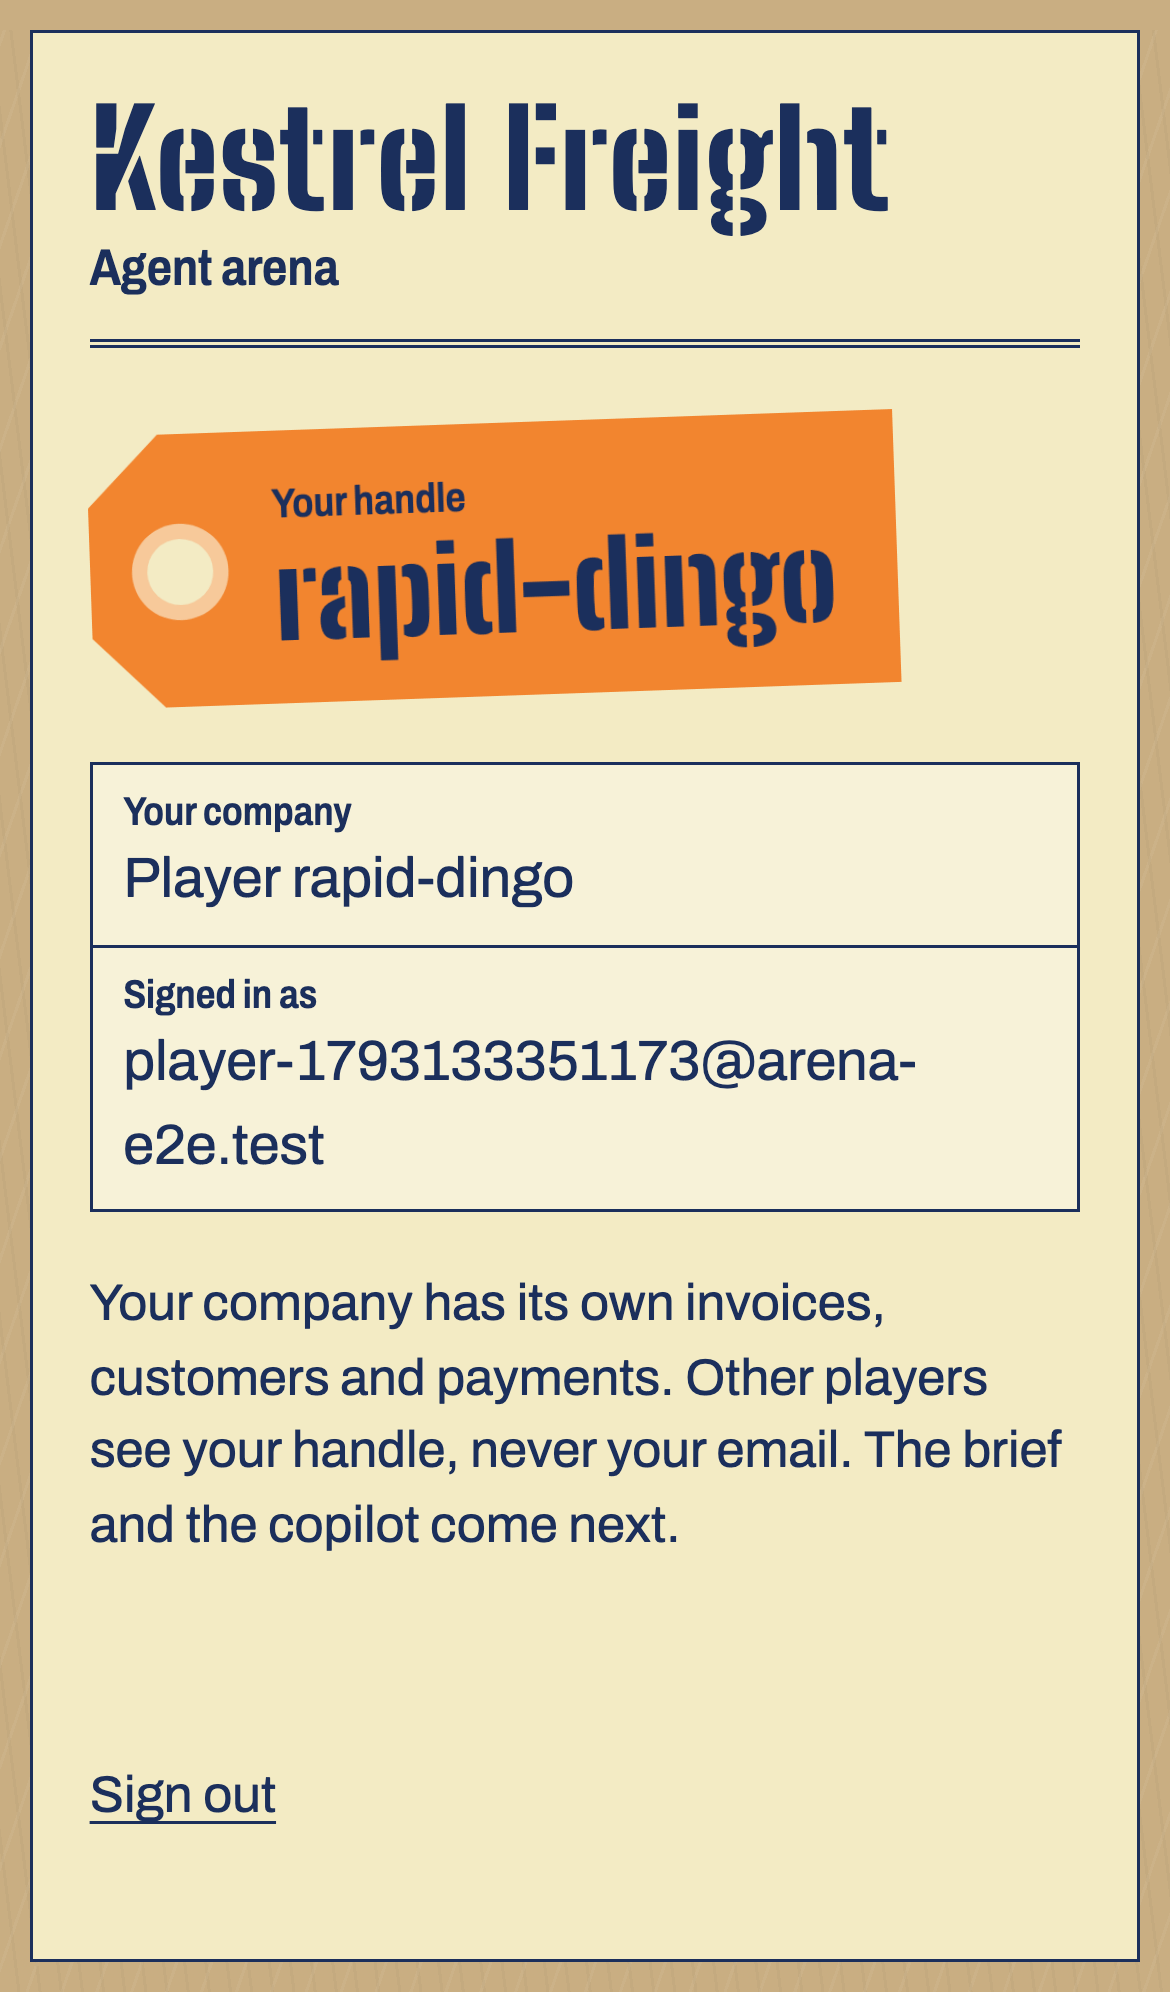
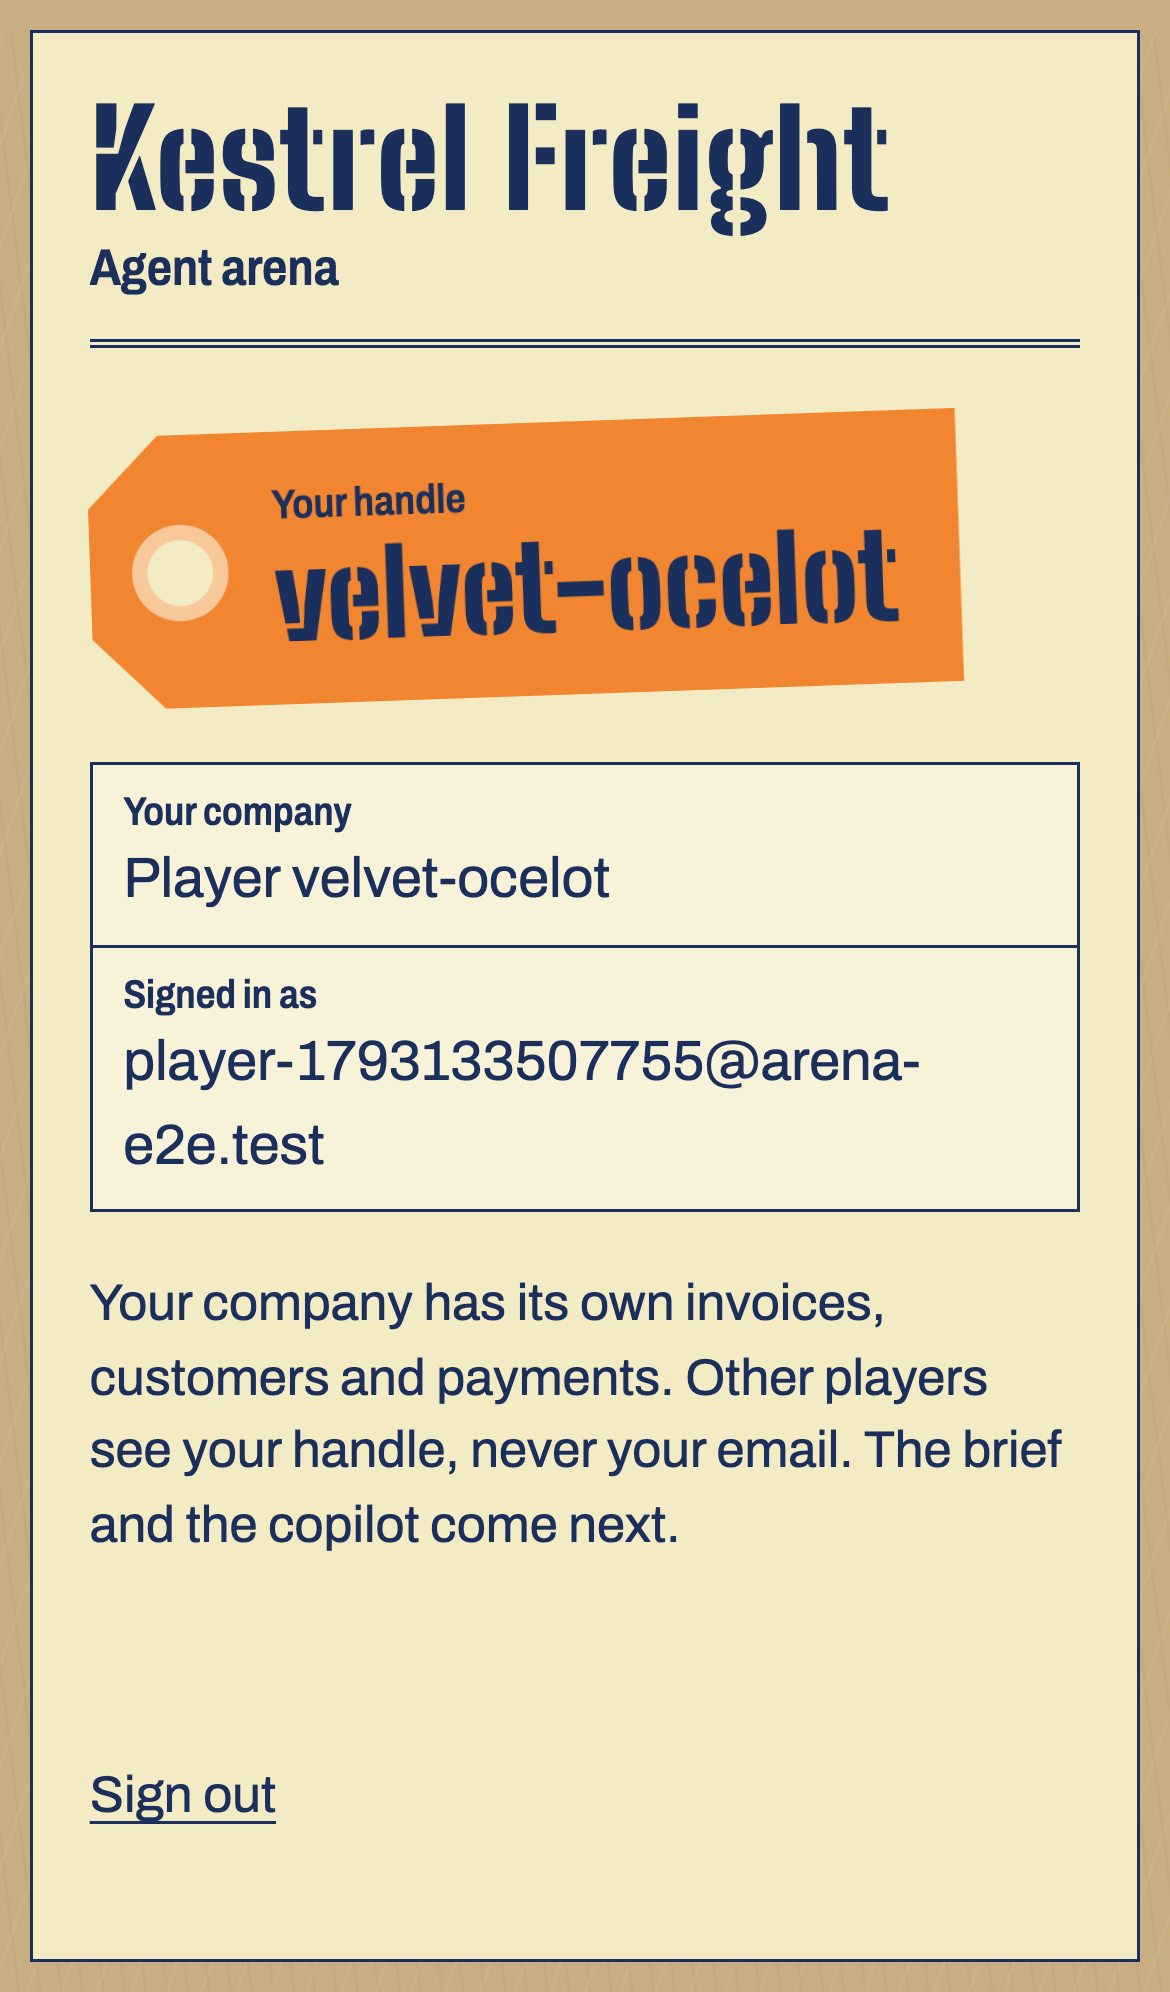
fix(arena): honor ?next= when the session lands before the sign-in redirect
The signed-in branch of /sign-in sent everyone to / and won the race with
SignIn's own navigate, so a same-origin ?next= (step 4's consent round trip)
was dropped. e2e now checks the positive case too.

Changed region(s): [[0.2462, 0.1867, 0.8308, 0.3424], [0.4308, 0.498, 0.7692, 0.5602], [0.2462, 0.4357, 0.5231, 0.4669]]

diff --git a/apps/arena/src/App.tsx b/apps/arena/src/App.tsx
@@ -1,9 +1,15 @@
-import { Navigate, Route, Routes, useLocation } from "react-router";
-import { signInPath } from "@ar/shared/auth/next.ts";
+import { Navigate, Route, Routes, useLocation, useSearchParams } from "react-router";
+import { safeNext, signInPath } from "@ar/shared/auth/next.ts";
 import { agentReturnPath } from "./lib/routes.ts";
 import { Home } from "./pages/Home.tsx";
 import { SignIn } from "./pages/SignIn.tsx";
 import { useSession } from "./session.ts";
+
+// Signed in already (or just now: the session lands before SignIn's own navigate runs), so go where ?next= says.
+function SignedIn() {
+  const [params] = useSearchParams();
+  return <Navigate replace to={safeNext(params.get("next"))} />;
+}
 
 function AgentReturn() {
   return <Navigate replace to={agentReturnPath(useLocation().search)} />;
@@ -16,7 +22,7 @@ export function App() {
   const here = location.pathname + location.search;
   return (
     <Routes>
-      <Route path="/sign-in" element={session ? <Navigate to="/" replace /> : <SignIn />} />
+      <Route path="/sign-in" element={session ? <SignedIn /> : <SignIn />} />
       <Route path="/agent" element={<AgentReturn />} />
       <Route path="*" element={session ? <Home email={session.user.email ?? ""} /> : <Navigate to={signInPath(here)} replace />} />
     </Routes>

diff --git a/docs/context-packs/REPORT_04.md b/docs/context-packs/REPORT_04.md
@@ -83,12 +83,13 @@ which broke `evals/run.ts`; pack 02's Deno suites were re-run green after the mo
    - Look: "freight manifest" on a phone: a canary carbon-copy sheet on kraft, form-ink navy, manifest cells
      for fields, Big Shoulders Stencil for the wordmark, handle and code, Archivo for text; the cargo-tag orange
      is spent on one thing, the handle.
-   - Evidence: `apps/arena/e2e/signin.e2e.mjs` at an iPhone 14 viewport, code read from Mailpit, 9 steps pass
+   - Evidence: `apps/arena/e2e/signin.e2e.mjs` at an iPhone 14 viewport, code read from Mailpit, 10 steps pass
      (`evidence/A_signin_e2e_local.txt`): new email gets a code with no link; a wrong code is refused; a pasted
      code with a space works; handle and company shown about 0.6 s after opening the page with scripted typing
      (P4's 60 s is mostly the human reading an email); the database has one player row, its own tenant and 560
      cloned invoices; reload and a returning sign-in keep the same handle; an off-site `?next=` lands in the
-     arena; the production build refuses and the stage build passes. Screenshots: `evidence/A_signin_email_390.png`,
+     arena and a same-origin one is honored (this caught a race: the signed-in branch of `/sign-in` used to
+     send everyone to `/` before the page's own redirect ran); the production build refuses and the stage build passes. Screenshots: `evidence/A_signin_email_390.png`,
      `evidence/A_player_tag_390.png`. `scripts/e2e-apps.sh` now takes `<app>:<test>` (for example `arena:signin`).
 3. Brief page: rules, the four flags, the `KST-2026-####` hint, what counts as a capture, the prize, the "found
    a real hole?" policy; text the humans still owe is marked TBD.
